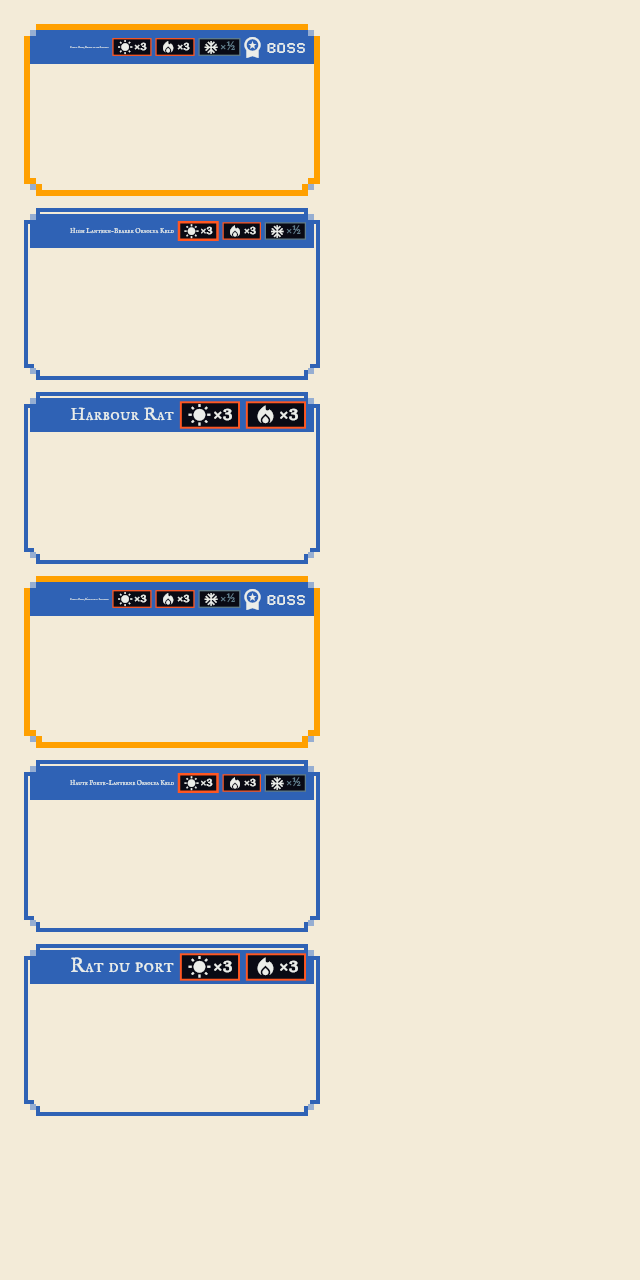
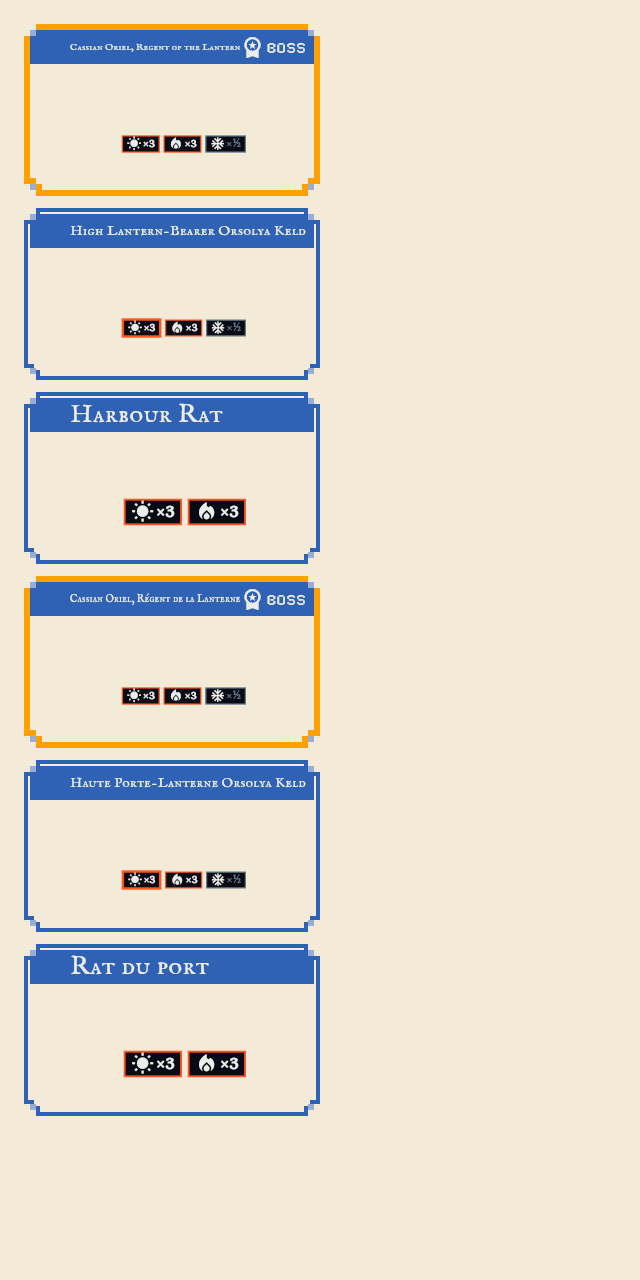
Nameplate marks drop to the chip row when the name cannot stay readable; no-overflow test
Claude-Session: https://claude.ai/code/session_019ETFw2Y7wpHSXWG5mmACty

diff --git a/lib/widgets/fight_block.dart b/lib/widgets/fight_block.dart
@@ -141,127 +141,151 @@ class FightBlock extends StatelessWidget {
                 g.ornament,
                 Color.lerp(plateColor, Palette.apolloCream, 0.55)!,
                 Palette.apolloOutline),
-        child: Column(
-          children: [
-            Container(
-              height: plateHeight,
-              margin: const EdgeInsets.fromLTRB(3, 3, 3, 0),
-              padding: const EdgeInsets.symmetric(horizontal: 4),
-              color: plateColor,
-              child: Row(
-                children: [
-                  if (g != null) ...[
-                    GroupEmblem(g, size: 13, color: plateInk),
-                    const SizedBox(width: 3),
-                  ] else if (order != null) ...[
-                    Text('$order',
-                        style: TextStyle(
-                            fontSize: 9,
-                            fontWeight: FontWeight.bold,
-                            color: plateInk)),
-                    const SizedBox(width: 3),
-                  ],
-                  Expanded(
-                    child: FittedBox(
-                      fit: BoxFit.scaleDown,
-                      alignment: Alignment.centerLeft,
-                      child: Text(
-                        name,
-                        maxLines: 1,
-                        style: TextStyle(
-                            fontFamily: InkFonts.display,
-                            fontSize: 13,
-                            height: 1,
-                            color: plateInk),
-                      ),
-                    ),
-                  ),
-                  if (marks.isNotEmpty)
-                    // The marks keep to 66 dp and shrink to fit; the name
-                    // takes the rest of the plate.
-                    ConstrainedBox(
-                      constraints: const BoxConstraints(maxWidth: 66),
+        child: LayoutBuilder(builder: (context, box) {
+          // The marks sit on the plate while the name stays readable beside
+          // them; otherwise they drop to the chip row under it.
+          final onPlate = marks.isEmpty ||
+              _nameFitsBeside(box.maxWidth, ranked: rank != FightRank.normal);
+          return Column(
+            children: [
+              Container(
+                height: plateHeight,
+                margin: const EdgeInsets.fromLTRB(3, 3, 3, 0),
+                padding: const EdgeInsets.symmetric(horizontal: 4),
+                color: plateColor,
+                child: Row(
+                  children: [
+                    if (g != null) ...[
+                      GroupEmblem(g, size: 13, color: plateInk),
+                      const SizedBox(width: 3),
+                    ] else if (order != null) ...[
+                      Text('$order',
+                          style: TextStyle(
+                              fontSize: 9,
+                              fontWeight: FontWeight.bold,
+                              color: plateInk)),
+                      const SizedBox(width: 3),
+                    ],
+                    Expanded(
                       child: FittedBox(
                         fit: BoxFit.scaleDown,
-                        alignment: Alignment.centerRight,
-                        child: Row(
-                          mainAxisSize: MainAxisSize.min,
-                          children: [
-                            for (final m in marks) _markChip(m, plateInk),
-                          ],
+                        alignment: Alignment.centerLeft,
+                        child: Text(
+                          name,
+                          maxLines: 1,
+                          style: TextStyle(
+                              fontFamily: InkFonts.display,
+                              fontSize: 13,
+                              height: 1,
+                              color: plateInk),
                         ),
                       ),
                     ),
-                  if (rank != FightRank.normal) _rankMark(plateInk),
-                ],
-              ),
-            ),
-            Expanded(
-              child: Padding(
-                padding: const EdgeInsets.fromLTRB(5, 3, 5, 2),
-                child: Row(
-                  children: [
-                    Stack(
-                      clipBehavior: Clip.none,
-                      children: [
-                        SizedBox(width: 32, height: 32, child: head),
-                        if (armor != null)
-                          Positioned(
-                            left: -2,
-                            bottom: -12,
-                            child: _gem(context, Icons.shield_outlined,
-                                '$armor', Palette.slate),
-                          ),
-                        if (damage != null)
-                          Positioned(
-                            right: -6,
-                            bottom: -12,
-                            child: _gem(
-                                context, Icons.bolt, '$damage', Palette.hot),
-                          ),
-                      ],
-                    ),
-                    const SizedBox(width: 10),
-                    Expanded(
-                      child: Column(
-                        mainAxisAlignment: MainAxisAlignment.center,
-                        crossAxisAlignment: CrossAxisAlignment.stretch,
-                        children: [
-                          bar,
-                          const SizedBox(height: 3),
-                          SizedBox(
-                            height: 20,
-                            child: Row(
-                              children: [
-                                Expanded(
-                                  child: SingleChildScrollView(
-                                    scrollDirection: Axis.horizontal,
-                                    child: Row(children: chips),
-                                  ),
-                                ),
-                                if (intent != null)
-                                  Flexible(
-                                    flex: 0,
-                                    child: ConstrainedBox(
-                                      constraints:
-                                          const BoxConstraints(maxWidth: 92),
-                                      child: intent,
-                                    ),
-                                  ),
-                              ],
-                            ),
-                          ),
-                        ],
-                      ),
-                    ),
+                    if (marks.isNotEmpty && onPlate)
+                      for (final m in marks) _markChip(m, plateInk),
+                    if (rank != FightRank.normal) _rankMark(plateInk),
                   ],
                 ),
               ),
-            ),
-          ],
-        ),
+              Expanded(
+                child: Padding(
+                  padding: const EdgeInsets.fromLTRB(5, 3, 5, 2),
+                  child: Row(
+                    children: [
+                      Stack(
+                        clipBehavior: Clip.none,
+                        children: [
+                          SizedBox(width: 32, height: 32, child: head),
+                          if (armor != null)
+                            Positioned(
+                              left: -2,
+                              bottom: -12,
+                              child: _gem(context, Icons.shield_outlined,
+                                  '$armor', Palette.slate),
+                            ),
+                          if (damage != null)
+                            Positioned(
+                              right: -6,
+                              bottom: -12,
+                              child: _gem(
+                                  context, Icons.bolt, '$damage', Palette.hot),
+                            ),
+                        ],
+                      ),
+                      const SizedBox(width: 10),
+                      Expanded(
+                        child: Column(
+                          mainAxisAlignment: MainAxisAlignment.center,
+                          crossAxisAlignment: CrossAxisAlignment.stretch,
+                          children: [
+                            bar,
+                            const SizedBox(height: 3),
+                            SizedBox(
+                              height: 20,
+                              child: Row(
+                                children: [
+                                  if (!onPlate)
+                                    Flexible(
+                                        flex: 2,
+                                        child: ConstrainedBox(
+                                          constraints: const BoxConstraints(
+                                              maxWidth: 104),
+                                          child: FittedBox(
+                                            fit: BoxFit.scaleDown,
+                                            alignment: Alignment.centerLeft,
+                                            child: Row(children: [
+                                              for (final m in marks)
+                                                _markChip(m, plateInk),
+                                            ]),
+                                          ),
+                                        )),
+                                  Expanded(
+                                    child: SingleChildScrollView(
+                                      scrollDirection: Axis.horizontal,
+                                      child: Row(children: chips),
+                                    ),
+                                  ),
+                                  if (intent != null)
+                                    Flexible(
+                                      flex: 0,
+                                      child: ConstrainedBox(
+                                        constraints:
+                                            const BoxConstraints(maxWidth: 92),
+                                        child: intent,
+                                      ),
+                                    ),
+                                ],
+                              ),
+                            ),
+                          ],
+                        ),
+                      ),
+                    ],
+                  ),
+                ),
+              ),
+            ],
+          );
+        }),
       ),
     );
+  }
+
+  /// Whether the name stays at a readable size (at least 85 % of its 13 sp)
+  /// on a plate [width] wide with its emblem or number, its marks and its
+  /// rank beside it.
+  bool _nameFitsBeside(double width, {required bool ranked}) {
+    final painter = TextPainter(
+      text: TextSpan(
+          text: name,
+          style: const TextStyle(
+              fontFamily: InkFonts.display, fontSize: 13, height: 1)),
+      maxLines: 1,
+      textDirection: TextDirection.ltr,
+    )..layout();
+    // Margins 6, padding 8, emblem or number 16, a mark about 33, the rank 48.
+    final room = width - 6 - 8 - 16 - marks.length * 33 - (ranked ? 48 : 0);
+    return room >= painter.width * 0.85;
   }
 
   Widget _rankMark(Color ink) => Row(

diff --git a/test/fight_block_marks_test.dart b/test/fight_block_marks_test.dart
@@ -1,0 +1,80 @@
+// The marks on a foe's nameplate never overflow it (v1.996): the longest foe
+// names, in English and French, with the group emblem, three marks and a boss
+// rank, on a slot as narrow as a 320 dp phone gives (about 143 dp). A name
+// that cannot stay readable beside its marks sends them to the chip row.
+import 'dart:convert';
+import 'dart:io';
+
+import 'package:flutter/material.dart';
+import 'package:flutter_test/flutter_test.dart';
+
+import 'package:narrative_data_app/utils/game_icons.dart';
+import 'package:narrative_data_app/widgets/enemy_groups.dart';
+import 'package:narrative_data_app/widgets/fight_block.dart';
+
+void main() {
+  final enemies =
+      jsonDecode(File('assets/gamedata/enemies.json').readAsStringSync())
+          as Map<String, dynamic>;
+  String longest(String key) => [
+        for (final e in enemies.values) (e as Map)[key]?.toString() ?? '',
+      ].reduce((a, b) => a.length >= b.length ? a : b);
+
+  Widget slot(String name, double width,
+          {required int marks, FightRank rank = FightRank.boss}) =>
+      MaterialApp(
+        home: Scaffold(
+          body: Center(
+            child: SizedBox(
+              width: width,
+              height: 86,
+              child: FightBlock(
+                name: name,
+                plateColor: Colors.blue,
+                group: enemyGroups['dominion'],
+                rank: rank,
+                marks: [
+                  for (var i = 0; i < marks; i++)
+                    FightMark(
+                        icon: elementIcon(i == 0 ? 'Light' : 'Fire'),
+                        text: i == 2 ? '×½' : '×3',
+                        weak: i != 2),
+                ],
+                head: const SizedBox(),
+                bar: const SizedBox(height: 10),
+              ),
+            ),
+          ),
+        ),
+      );
+
+  for (final width in [143.0, 163.0]) {
+    for (final key in ['enemyName', 'enemyName_fr']) {
+      testWidgets('the longest $key with 3 marks and a boss rank at $width',
+          (tester) async {
+        await tester.pumpWidget(slot(longest(key), width, marks: 3));
+        expect(tester.takeException(), isNull);
+      });
+    }
+  }
+
+  testWidgets(
+      'a short name keeps its marks on the plate, a long one drops them',
+      (tester) async {
+    await tester.pumpWidget(slot('Rat', 163, marks: 2, rank: FightRank.normal));
+    final rect =
+        tester.getRect(find.byKey(const Key('fight_block_Rat_dominion')));
+    final mark = find
+        .byWidgetPredicate((w) => w.key.toString().contains('fight_mark_weak'))
+        .first;
+    expect(tester.getRect(mark).top, lessThan(rect.top + 24));
+    final longName = longest('enemyName');
+    await tester.pumpWidget(slot(longName, 143, marks: 3));
+    final block = find.byKey(Key('fight_block_${longName}_dominion'));
+    final mark2 = find
+        .byWidgetPredicate((w) => w.key.toString().contains('fight_mark_weak'))
+        .first;
+    expect(
+        tester.getRect(mark2).top, greaterThan(tester.getRect(block).top + 24));
+  });
+}
